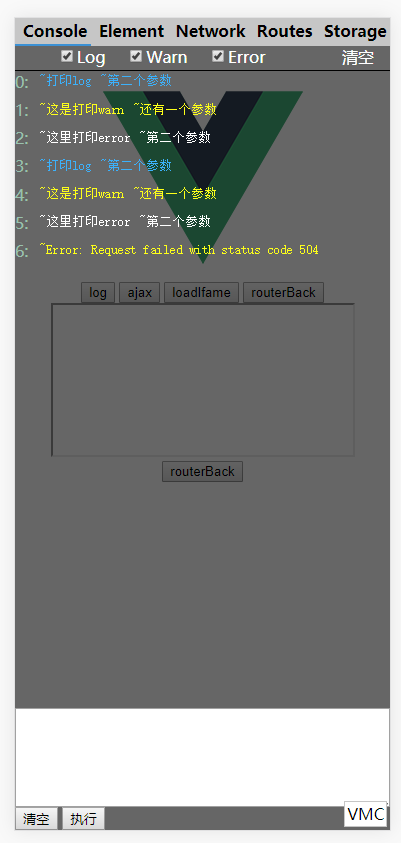
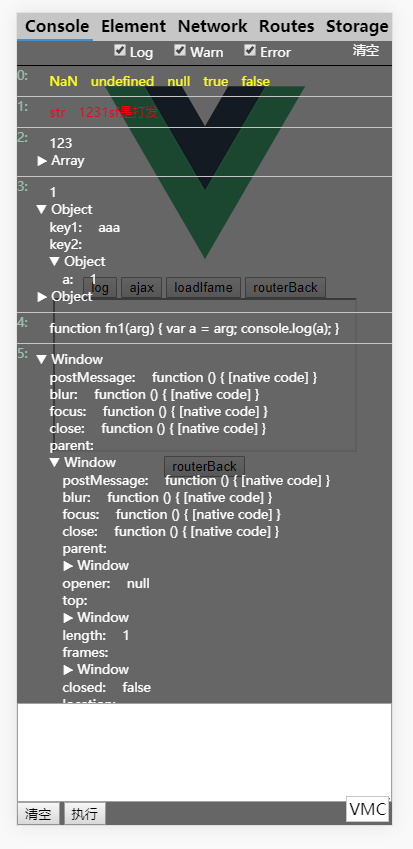
打印对象优化

Changed region(s): [[0.0299, 0.0, 0.9875, 0.987]]

diff --git a/tabs/log/VMCLog.vue b/tabs/log/VMCLog.vue
@@ -1,0 +1,75 @@
+<!--  
+  
+-->
+<template lang="html"> 
+<div v-if="logValue===false" class="_VMCObjLog" >
+  <div class="_vmc_objTl" @click="showObjKeys">
+    <span class="_vmc_objTlIcon" :data-rotate="isShow">▶</span>
+    {{Object.prototype.toString.call(logVal).slice(8,-1)}}
+  </div>
+  <VCMObjLog v-show="isShow" :objVal="currentObj"></VCMObjLog>
+</div>
+<span v-else class="_VMCStrLog">{{logValue}}</span>
+</template> 
+
+<script> 
+import {dealObject, } from "../../scripts/tool.js";
+export default {
+  name: 'VMCLog',
+  props: {
+    logVal: {
+      default(){ return '默认值为undefined'; },
+    },
+  },
+  data(){
+    return {
+      currentObj: '', 
+      
+      isShow: false, 
+    };
+  },
+  computed: {
+    logValue(){
+      if ( this.logVal==='默认值为undefined' ) { return 'undefined'; }
+      else if ( this.logVal===null ) { return 'null'; }
+      else if ( typeof this.logVal==='number' ) { return this.logVal+''; }
+      else if ( typeof this.logVal==='string' ) { return this.logVal; }
+      else if ( typeof this.logVal==='boolean' ) { return this.logVal+''; }
+      else if ( typeof this.logVal==='function' ) { return this.logVal.toString(); }
+      
+      return false;
+    },
+  },
+  // beforeCreate(){
+  //   this.$options.components.VCMObjLog = require('./Obj.vue').default
+  // },
+  methods: {
+    showObjKeys(){
+      this.isShow = !this.isShow; 
+      if (!this.currentObj) {
+        this.currentObj = this.logVal;
+      }
+    },
+  },
+  components: { 
+    VCMObjLog: ()=>import('./VMCObjLog.vue'), 
+  },
+};
+</script> 
+
+<style scoped> 
+  ._VMCStrLog {
+    display: inline-block;
+    margin-left: 1em;
+    max-width: 100vw;
+    max-height: 50vw;
+    overflow: scroll;
+    vertical-align: bottom;
+  }
+  ._vmc_objTlIcon[data-rotate] {
+    display: inline-block;
+    transform: rotate(90deg);
+  }
+</style> 
+<style> 
+</style> 

diff --git a/scripts/tool.js b/scripts/tool.js
@@ -21,3 +21,78 @@ export function dealResponse(type,response){
   return rst; 
 
 }
+
+// 格式化对象 
+// {
+//   type: 'Object',
+//   kvMap: {
+//     key1: {
+//       type: 'Array',
+//       kvMap: {
+//         1: '1',
+//       },
+//     },
+//     key2: '123', 
+//     key3: {
+//       type: 'Element',
+//       kvMap: {
+//         xx: xxx, 
+//       },
+//     },
+//     key4: { type: 'Element', },
+//   },
+// }
+export function dealObject(obj,valArr){
+  let objValArr = [];
+  if ( valArr ) { objValArr = valArr }
+  
+  
+  let _kvMap = {};
+  for(var key in obj){
+    let val = obj[key];
+    if ( val===null ) { _kvMap[key] = null; }
+    else if (typeof val==='object' ) {
+      let idx = objValArr.findIndex( itm=>{ 
+        return val===itm  
+      } )
+      if (idx===-1) { 
+        objValArr.push(val); 
+        _kvMap[key] = dealObject(val,objValArr);
+      }
+      else { 
+        // _arr1.push({
+        //   type: Object.prototype.toString.call(val).slice(8,-1), 
+        // })
+        _kvMap[key] = {
+          // type: Object.prototype.toString.call(val).slice(8,-1)
+          type: '循环引用 不展示', 
+        }
+        continue; 
+      }
+    }
+    else {
+      _kvMap[key] = val;
+    }
+  };
+  
+  return {
+    type: Object.prototype.toString.call(obj).slice(8,-1),
+    kvMap: _kvMap,
+  };
+}
+
+
+
+
+
+
+
+
+
+
+
+
+
+
+
+

diff --git a/tabs/Console.vue b/tabs/Console.vue
@@ -17,7 +17,7 @@
       v-show="filter[itm.type].value">
       <span class="bdItmTl"> {{key}}: </span>
       <div :class="['bdItmCt',itm.type]">
-        <pre><span class="part" v-for="(itm1,key1) in itm.msgs" :key="key1" >~{{itm1}} </span></pre>
+        <VMCLog v-for="(val,key1) in itm.msgs" :key="key1" :logVal="val"></VMCLog>
       </div>
     </div>
   </div>
@@ -34,6 +34,7 @@
 
 <script> 
 export default {
+  name: 'VMCConsole',
   data(){ 
     return {
       filter: {
@@ -60,14 +61,21 @@ export default {
       console.log( '执行结果:', window.eval( this.jsStrCode ) );
     },
   },
+  components: {
+    VMCLog: ()=>import('./log/VMCLog.vue'),
+  },
 };
 </script> 
 
 <style scoped> 
   @import "./common.css";
   .Console {
+    font-size: 13px;
   }
   
+  .bdItm {
+    border-bottom: 1px solid #ccc;
+  }
   .bdItmTl {
     color: #a0c7b6;
     position: absolute;
@@ -75,20 +83,15 @@ export default {
     left: 0; 
   }
   .bdItmCt {
-    overflow: scroll;
-    max-height: 5em;
   }
   
   .codeArea {
     flex-grow: 1;
   }
   
-  .log:first-line { color: #2ab7fc; }
-  .warn:first-line { color: yellow; }
-  .err:first-line { color: red; }
-  .part {
-    margin-right: 0.2em; 
-  }
+  /* .log { color: #2ab7fc; } */
+  .warn { color: yellow; }
+  .error { color: red; }
 </style> 
 <style > 
 </style> 

diff --git a/tabs/log/VMCObjLog.vue b/tabs/log/VMCObjLog.vue
@@ -1,0 +1,44 @@
+<!--  
+  
+-->
+<template lang="html"> 
+<section class="VMCObjLog" v-if="objVal"> 
+  <div class="_vmc_objItm" v-for="(itm,key) in objVal" > 
+    <span class="_vmc_objItmKey">{{key}}: </span>
+    <VMCLog :logVal="itm"></VMCLog>
+  </div>
+</section> 
+</template> 
+
+<script> 
+export default {
+  name: 'VMCObjLog',
+  props: {
+    objVal: {
+      default(){ return {}; },
+    },
+  },
+  computed: {
+    // objLog(){
+    //   return dealObject(this.objVal);
+    // },
+  },
+  // beforeCreate(){
+  //   this.$options.components.VMCLog = require('./Log.vue').default
+  // },
+  components: { 
+    VMCLog: ()=>import('./VMCLog.vue'), 
+  },
+};
+</script> 
+
+<style scoped> 
+  .VMCObjLog {
+    margin-left: 1em;
+  }
+  ._vmc_objItmKey {
+    display: inline-block;
+  }
+</style> 
+<style > 
+</style> 

diff --git a/scripts/console.js b/scripts/console.js
@@ -11,23 +11,14 @@ let _warn = console.warn;
 let _err = console.error;
 console.log = (...args)=>{
   _log('~',...args);
-  window._logList.push({
-    type: 'log',
-    msgs: args.map( itm=>itm+'' ),
-  })
+  window._logList.push({ type: 'log', msgs: args, })
 }
 console.warn = (...args)=>{
   _warn('~',...args);
-  window._logList.push({
-    type: 'warn',
-    msgs: args.map( itm=>itm+'' ),
-  })
+  window._logList.push({ type: 'warn', msgs: args, })
 }
 console.error = (...args)=>{
   _err('~',...args);
-  window._logList.push({
-    type: 'error',
-    msgs: args.map( itm=>itm+'' ),
-  })
+  window._logList.push({ type: 'error', msgs: args, })
 }
 

diff --git a/tabs/common.css b/tabs/common.css
@@ -28,9 +28,7 @@
 }
 .bdItm {
   box-sizing: border-box;
-  max-height: 5em;
-  padding-left: 1.5em;
-  margin-bottom: 0.5em;
+  padding: 0.5em 0 0.5em 1.5em;
   /* text-indent: -1em; */
   position: relative;
 }

diff --git a/tabs/Network.vue b/tabs/Network.vue
@@ -161,7 +161,6 @@ export default {
   
   .bdItm {
     padding-left: 0;
-    max-height: none;
     border-bottom: 1px solid #ccc;
   }
   .url {
